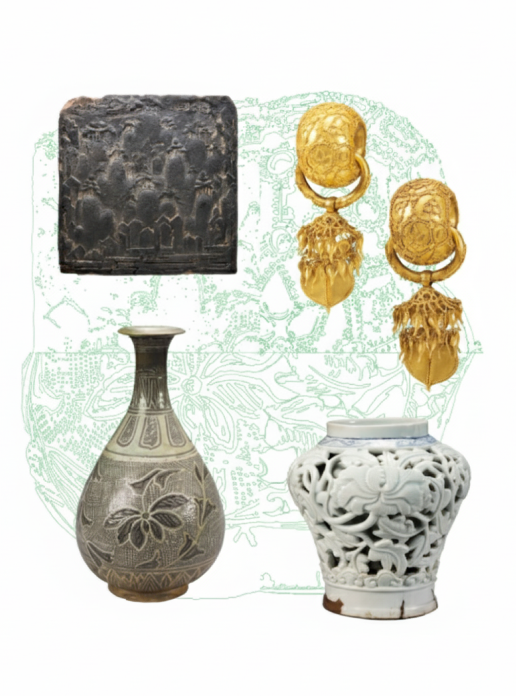
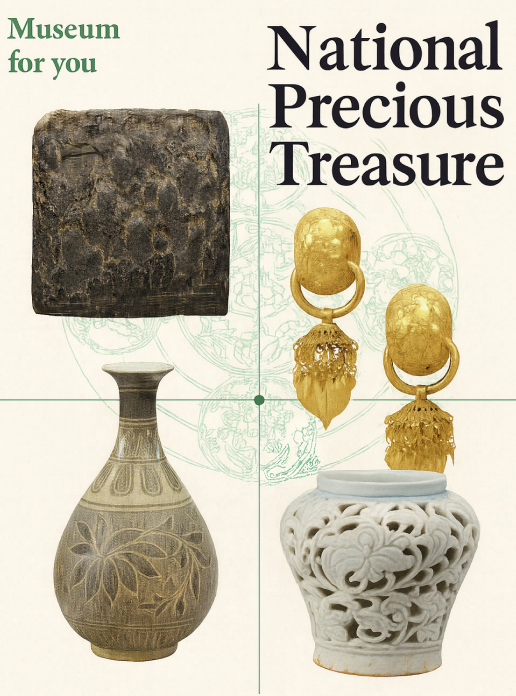
hs

diff --git a/html/exhibition.html b/html/exhibition.html
@@ -277,26 +277,26 @@
                         </article>
 
                         <article class="poster_5 swiper-slide">
-                            <img src="/asset/img_Special/Recommend_5.png" alt="1">
+                            <img src="/asset/img_Special/Recommend_5.png" alt="5">
                         </article>
-                        <article class="poster_1 swiper-slide">
-                            <img src="/asset/img_Special/Recommend_1.png" alt="1">
-                        </article>
-
-                        <article class="poster_2 swiper-slide">
-                            <img src="/asset/img_Special/Recommend_2.png" alt="1">
+                        <article class="poster_6 swiper-slide">
+                            <img src="/asset/img_Special/Recommend_6.png" alt="6">
                         </article>
 
-                        <article class="poster_3 swiper-slide">
-                            <img src="/asset/img_Special/Recommend_3.png" alt="1">
+                        <article class="poster_7 swiper-slide">
+                            <img src="/asset/img_Special/Recommend_7.png" alt="7">
                         </article>
 
-                        <article class="poster_4 swiper-slide">
-                            <img src="/asset/img_Special/Recommend_4.png" alt="1">
+                        <article class="poster_8 swiper-slide">
+                            <img src="/asset/img_Special/Recommend_8.png" alt="8">
                         </article>
 
-                        <article class="poster_5 swiper-slide">
-                            <img src="/asset/img_Special/Recommend_5.png" alt="1">
+                        <article class="poster_9 swiper-slide">
+                            <img src="/asset/img_Special/Recommend_9.png" alt="9">
+                        </article>
+
+                        <article class="poster_10 swiper-slide">
+                            <img src="/asset/img_Special/Recommend_10.png" alt="10">
                         </article>
                     </div>
                 </div><!-- //.Recommended inner -->

diff --git a/css/special.css b/css/special.css
@@ -457,8 +457,4 @@ main.bg {
     opacity: .7;
 }
 
-.Recommended article:hover {
-    transform: translateZ(20px) rotateY(0deg);
-    opacity: 1;
-    box-shadow: 0 20px 40px rgba(0, 0, 0, 0.2);
-} */
+ */
